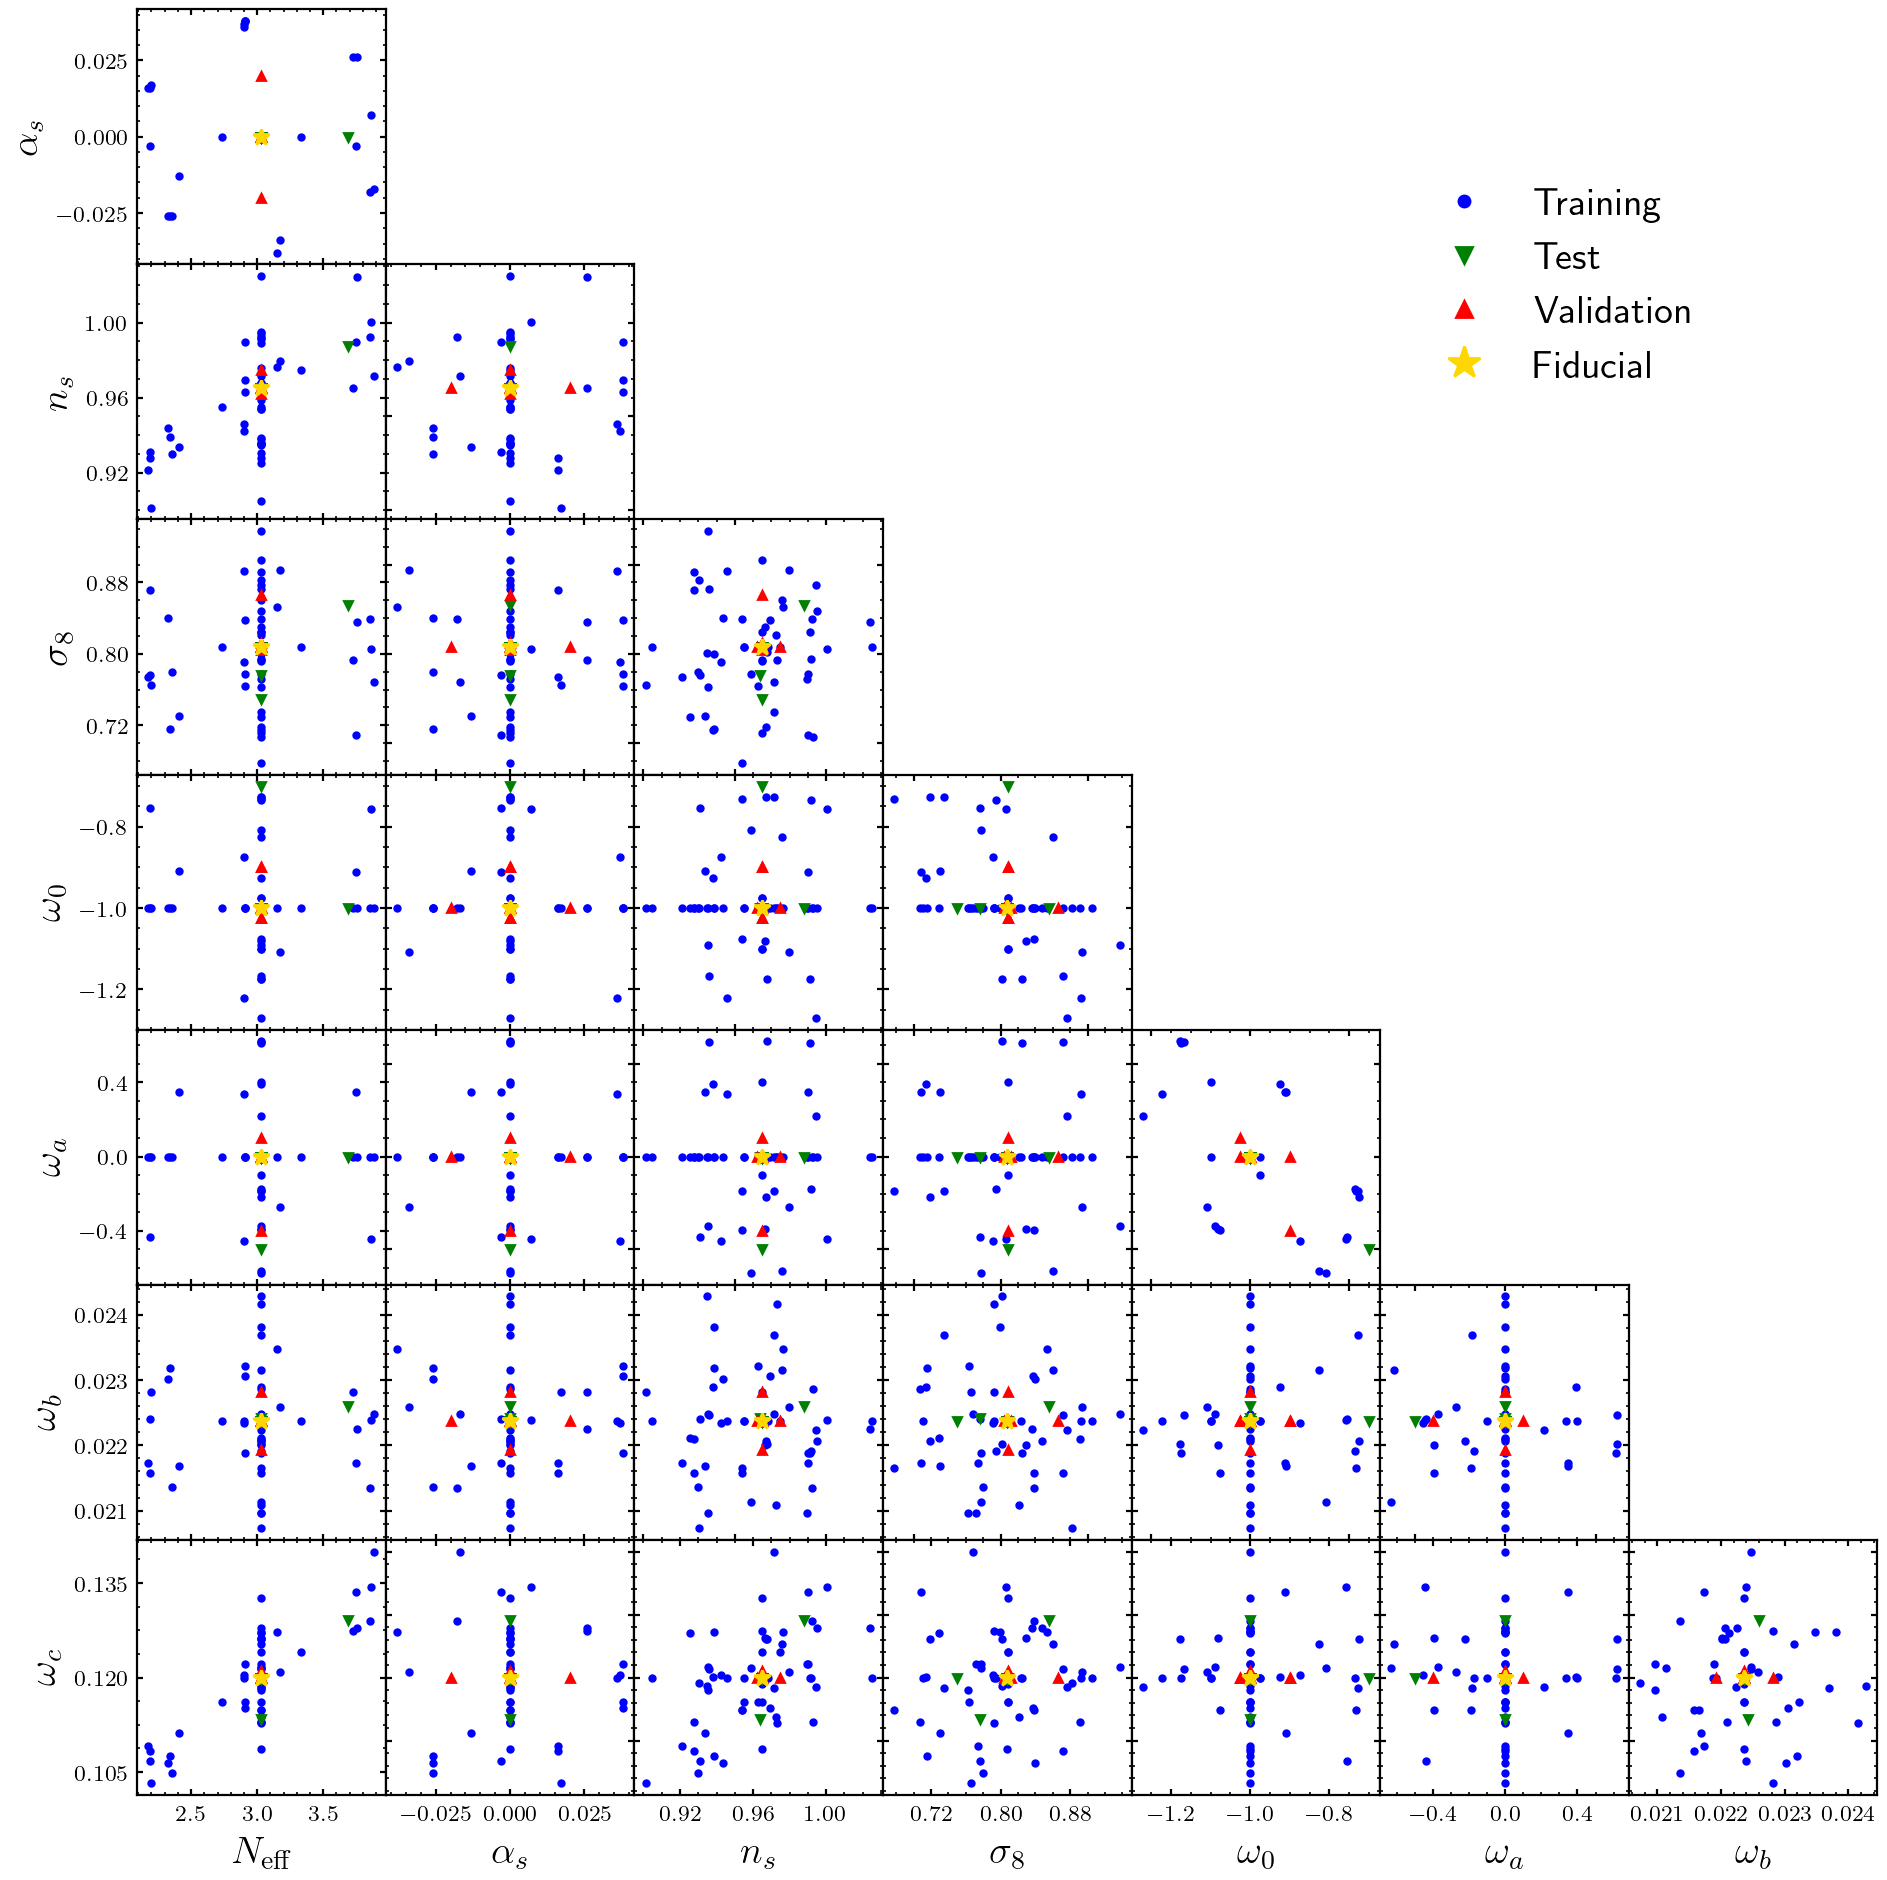
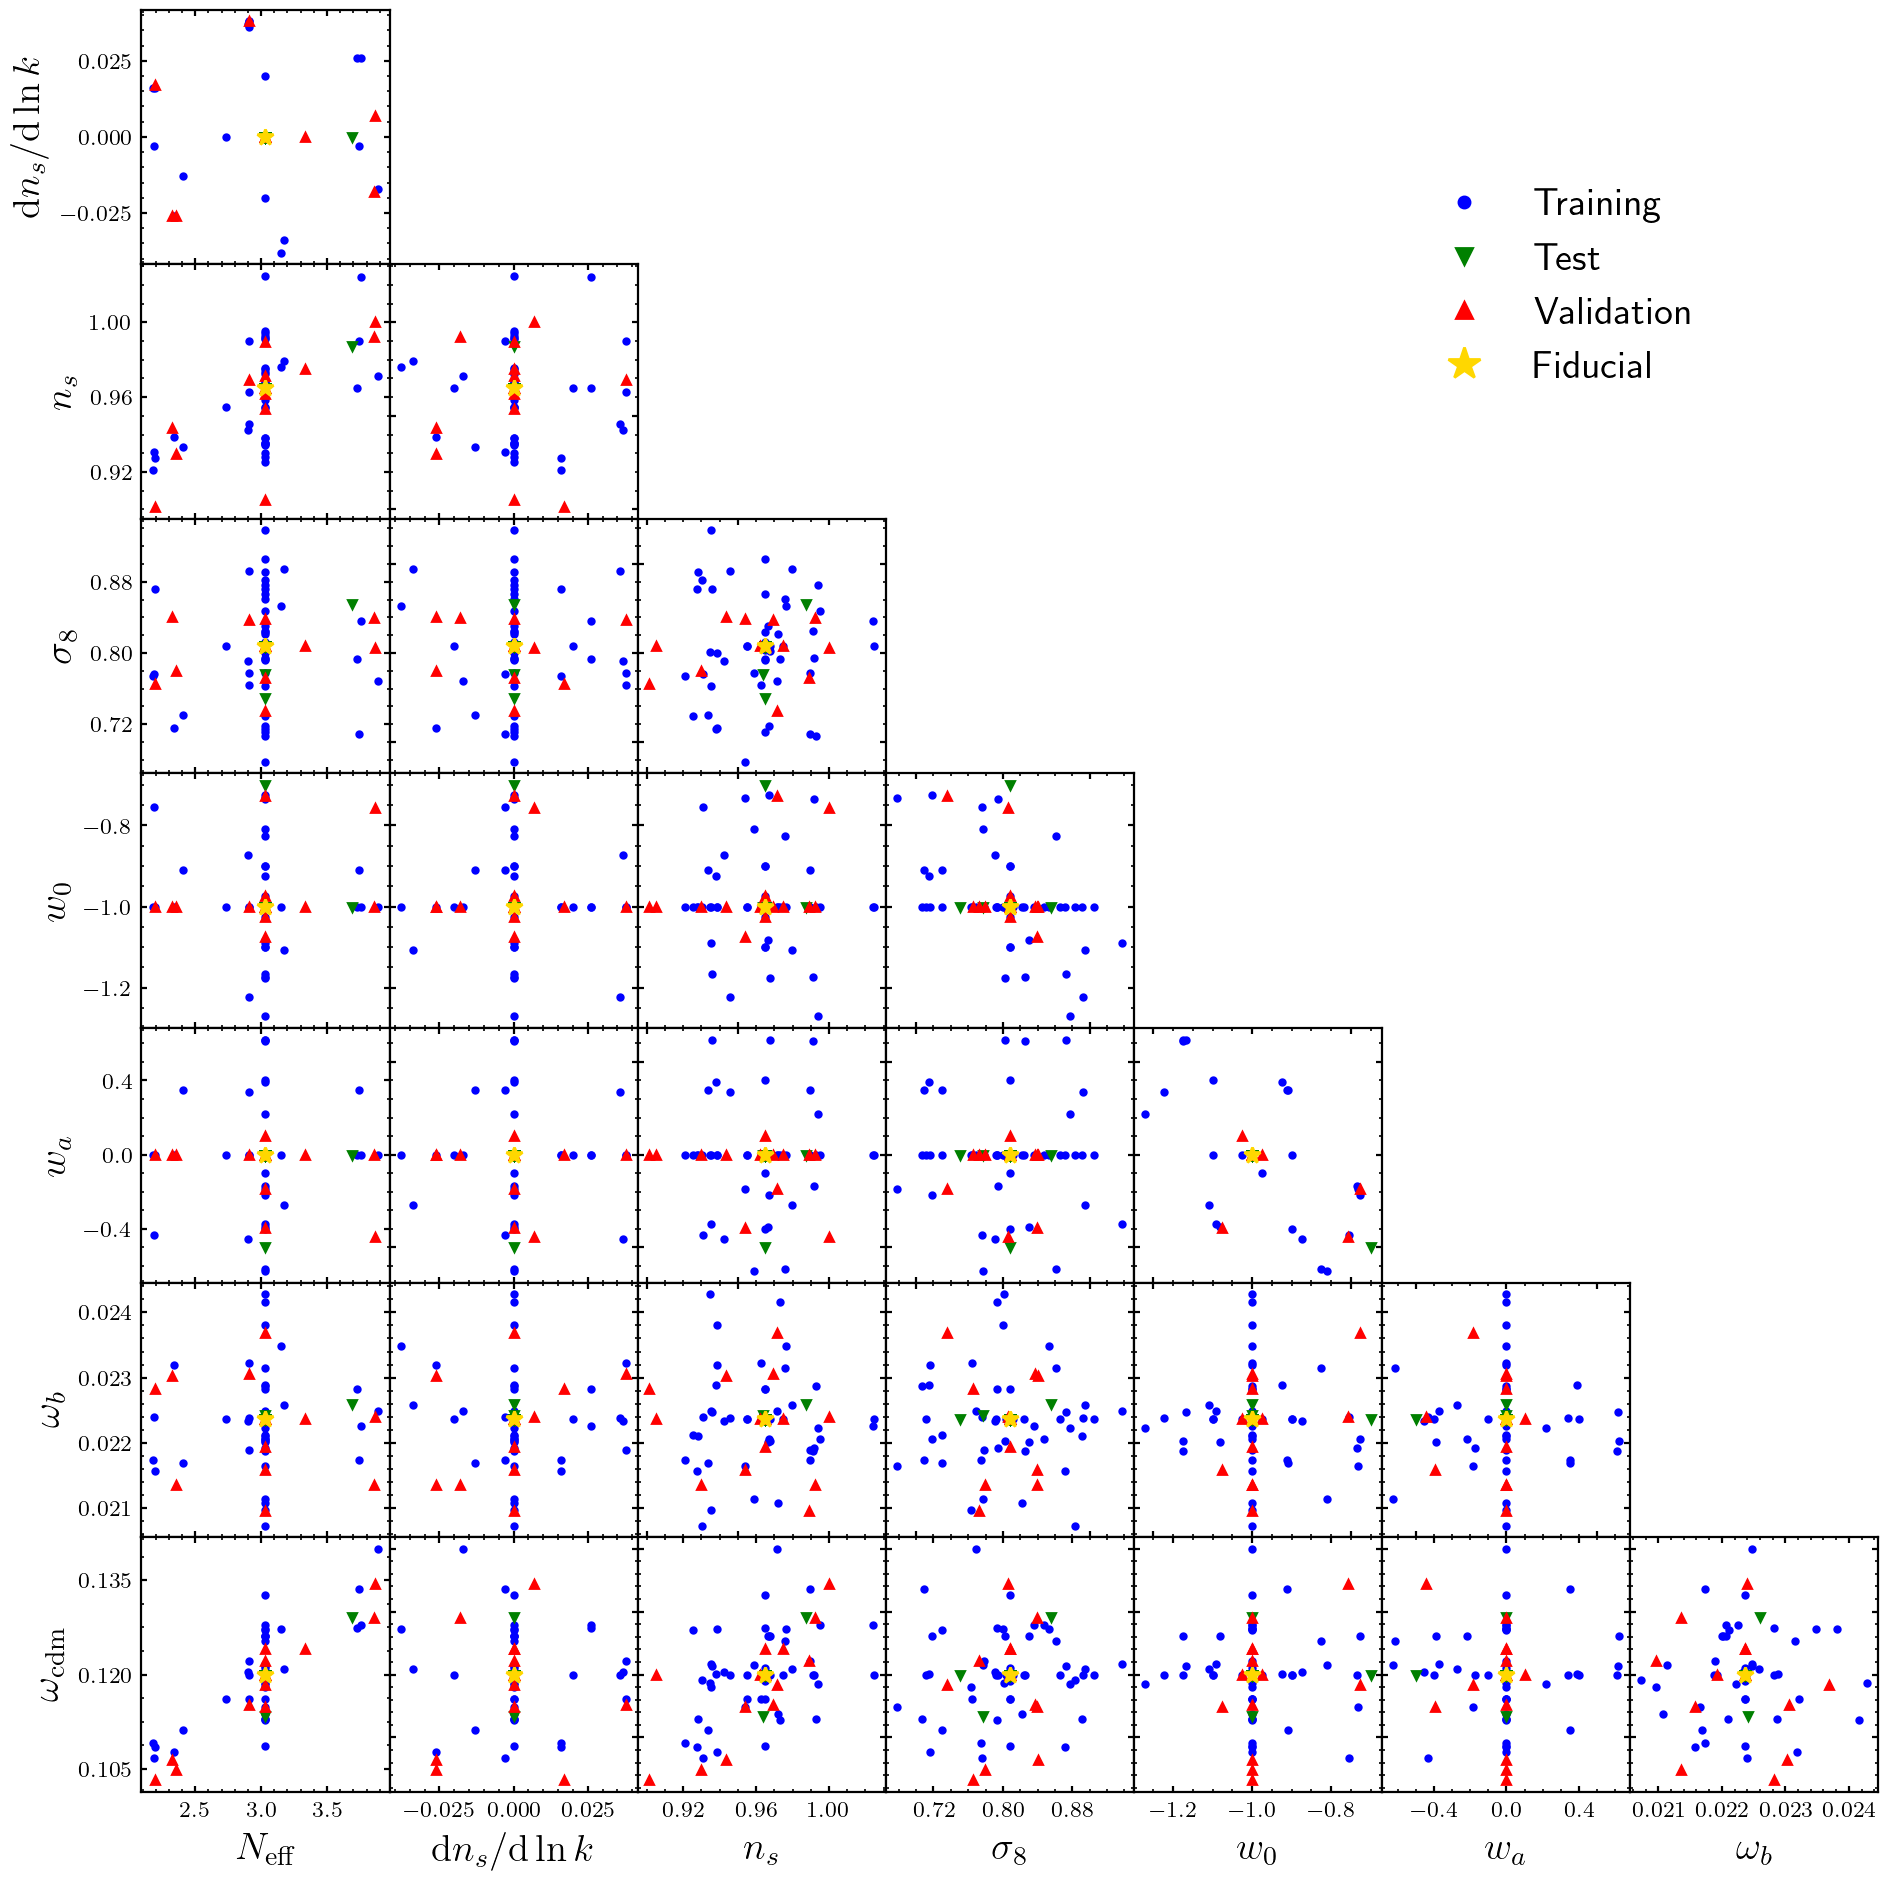
made new cosmo params plot

diff --git a/HaloModel/HOD_and_cosmo_emulation/parameter_samples_plot/cosmological_parameters.py b/HaloModel/HOD_and_cosmo_emulation/parameter_samples_plot/cosmological_parameters.py
@@ -100,11 +100,6 @@ labels = ["Training", "Test", "Validation", "Fiducial"]
 zorders = [1, 2, 3, 100]
 lines = []
 for data_idx, key in enumerate(cosmo_params_dict.keys()):
-    if key != "train" and key != "fiducial":
-        
-        continue
-    else: 
-        set_lim = True
     df = cosmo_params_dict[key]
 
     for ii in range(gridsize):
@@ -133,9 +128,9 @@ for data_idx, key in enumerate(cosmo_params_dict.keys()):
                 ax.yaxis.set_major_locator(plt.MaxNLocator(4))
             else:
                 ax.set_yticklabels([])
-            if set_lim:
-                ax.set_xlim(param_limits[jj])
-                ax.set_ylim(param_limits[ii])
+            # if set_lim:
+            #     ax.set_xlim(param_limits[jj])
+            #     ax.set_ylim(param_limits[ii])
 
     line, = plt.plot([], [], lw=0, marker=markers[data_idx], markersize=2*ms[data_idx], color=colors[data_idx], label=labels[data_idx])
     lines.append(line)
@@ -144,11 +139,11 @@ fig.legend(handles=lines, bbox_to_anchor=(0.8, 0.8), loc="upper right", ncol=1, 
 
 fig.tight_layout()
 
-plt.show()
+# plt.show()
 
-# plt.savefig(
-#     f"./plots/cosmo_params.png",
-#     bbox_inches="tight",
-#     pad_inches=0.05,
-#     dpi=200,
-# )
+plt.savefig(
+    f"./plots/cosmo_params.png",
+    bbox_inches="tight",
+    pad_inches=0.05,
+    dpi=200,
+)

diff --git a/HaloModel/HOD_and_cosmo_emulation/make_tpcf_emulation_data_files.py b/HaloModel/HOD_and_cosmo_emulation/make_tpcf_emulation_data_files.py
@@ -549,22 +549,23 @@ def xi_hdf5_to_csv(
 COSMO_PARAMS_CSV = ["wb", "wc", "sigma8", "ns", "alpha_s", "N_eff", "w0", "wa"]
 HOD_PARAMS_CSV   = ["sigma_logM", "alpha", "kappa", "log10M1", "log10_ng"]
 
-# make_TPCF_hdf5_files_full(ng_fixed=False)
+if __name__ == "__main__":
+    # make_TPCF_hdf5_files_full(ng_fixed=False)
 
-# xi_NOT_sliced_hdf5(
-#     COSMO_PARAMS_CSV=COSMO_PARAMS_CSV,
-#     HOD_PARAMS_CSV=HOD_PARAMS_CSV,
-#     ng_fixed=False,
-# )
+    # xi_NOT_sliced_hdf5(
+    #     COSMO_PARAMS_CSV=COSMO_PARAMS_CSV,
+    #     HOD_PARAMS_CSV=HOD_PARAMS_CSV,
+    #     ng_fixed=False,
+    # )
 
-xi_sliced_hdf5(
-    COSMO_PARAMS_CSV=COSMO_PARAMS_CSV,
-    HOD_PARAMS_CSV=HOD_PARAMS_CSV,
-    ng_fixed=False,
-    r_min=0.1,
-    r_max=105.0,
-)
+    xi_sliced_hdf5(
+        COSMO_PARAMS_CSV=COSMO_PARAMS_CSV,
+        HOD_PARAMS_CSV=HOD_PARAMS_CSV,
+        ng_fixed=False,
+        r_min=0.1,
+        r_max=105.0,
+    )
 
-xi_hdf5_to_csv(
-    sliced_r=True,
-    ng_fixed=False,)
+    xi_hdf5_to_csv(
+        sliced_r=True,
+        ng_fixed=False,)
